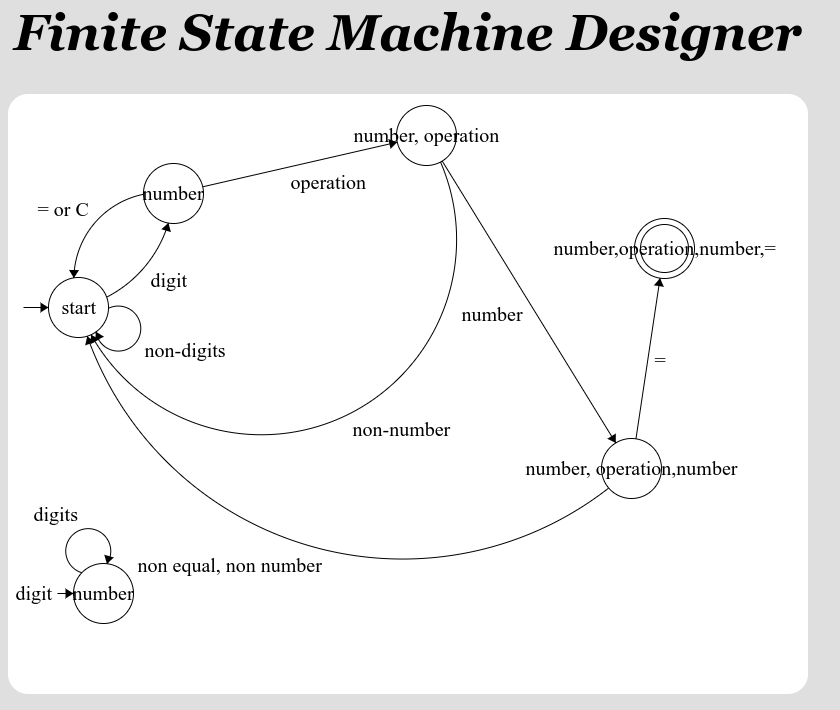
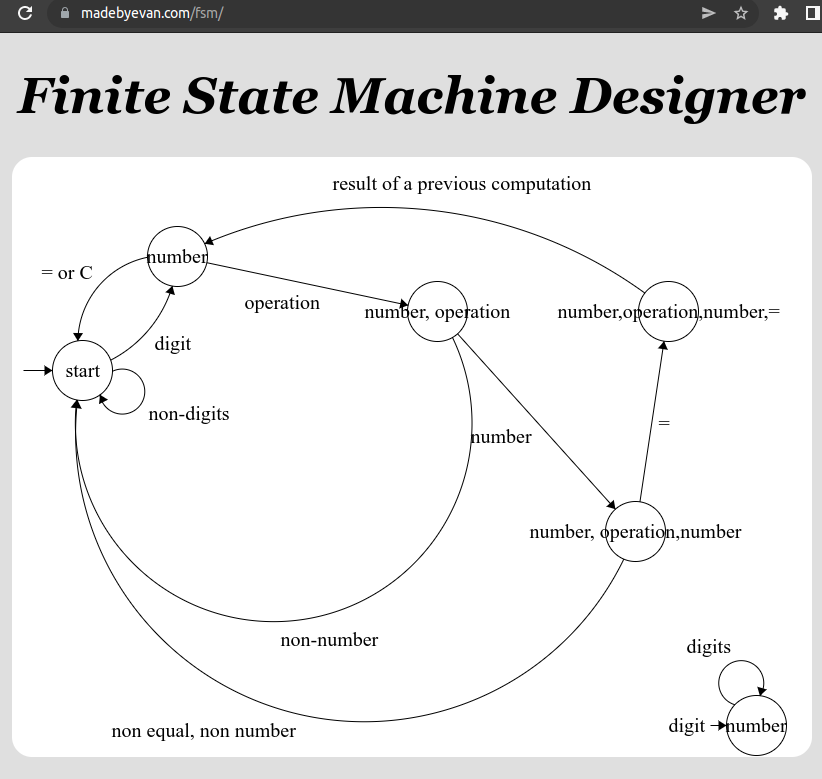
added chain-computation support, updated state machine .png

diff --git a/script.js b/script.js
@@ -2,12 +2,24 @@ const display = document.querySelector('#display');
 const buttons = document.querySelectorAll('button');
 
 //TODO: 
-//reduce code duplication 
-//no floating-point numbers?
 //enable a chain of computation
+
+//potentially get rid of "number2"? 
+//  this might be required to make the display show a running
+//  total of calculations instead of being limited to 2 numbers
+
+//reduce code duplication 
+
+//no floating-point numbers?
+
+//some code that describes the 'clear' button's purpose and
+//behavior, instead of just letting it work as a side effect
+//of not being accounted for?
+
 //something other than 'start' -> like some error message..
 //move from "states"/ "state machine" to some code
 //that better describes itself?
+
 
 
 //////////////
@@ -90,6 +102,9 @@ function processInput(pointerEvent) {
             let result = operate(operator, firstNumber, secondNumber);
             resetCalculator();
             display.textContent = result;
+            //turn result of calculation into input for next one:
+            firstNumber = result.toString();
+            state = 'number';
         }
         else {
             resetCalculator();
